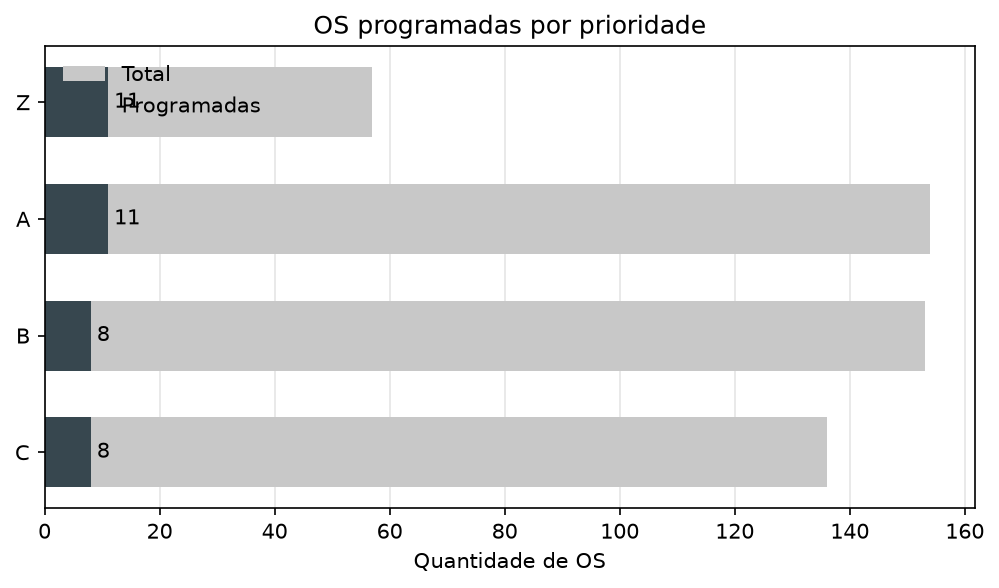
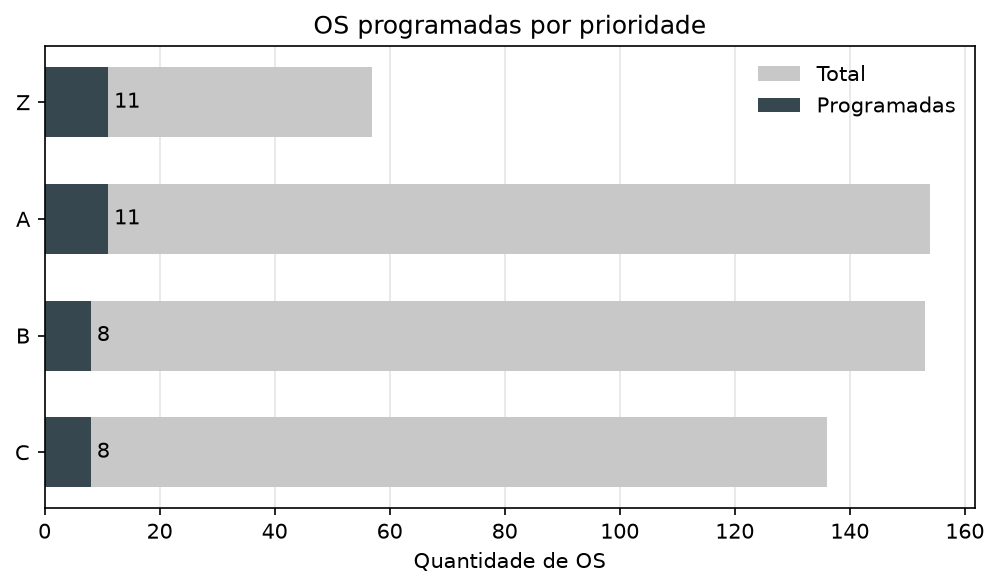
fix: corrige loc das legendas nos graficos

Changed region(s): [[0.7447, 0.0918, 0.962, 0.2143], [0.0621, 0.0918, 0.2482, 0.2143]]

diff --git a/src/main.py b/src/main.py
@@ -79,6 +79,12 @@ def create_solution(excel_path: str) -> dict:
 
                     'Uma OS sucessora só começa depois que a sua predecessora acaba, do dia seguinte em '
                     'diante. Além disso, se a predecessora não entrou, a sucessora fica de fora junto.',
+
+                    'Uma OS só conta como programada se terminar dentro da semana (a '
+                    'especificação não diz isso de forma explícita, mas o objetivo é '
+                    'maximizar a quantidade de OS executadas, e uma OS que passasse do '
+                    'quinto dia não teria sido executada naquela semana).',
+
                 ],
                 'validacao': (
                     f'Quantidade de erros: {len(erros)}. A verificação é feita por um validador independente '

diff --git a/src/plots.py b/src/plots.py
@@ -166,7 +166,7 @@ def _plot_prioridades(
         label='Programadas'
     )
     ax.bar_label(barras, fmt='%d', padding=3)
-    ax.legend(frameon=False, loc='upper left')
+    ax.legend(frameon=False)
     ax.grid(axis='x', color=GRADE, linewidth=0.8)
     ax.set_axisbelow(True)
     ax.invert_yaxis()
@@ -218,7 +218,7 @@ def _plot_ocupacao(
         color=REF,
         linewidth=2
     )
-    ax.legend(frameon=False)
+    ax.legend(frameon=False, loc='upper left')
     ax.set_ylim(0, 160)
     ax.grid(axis='y', color=GRADE, linewidth=0.8)
     ax.set_axisbelow(True)